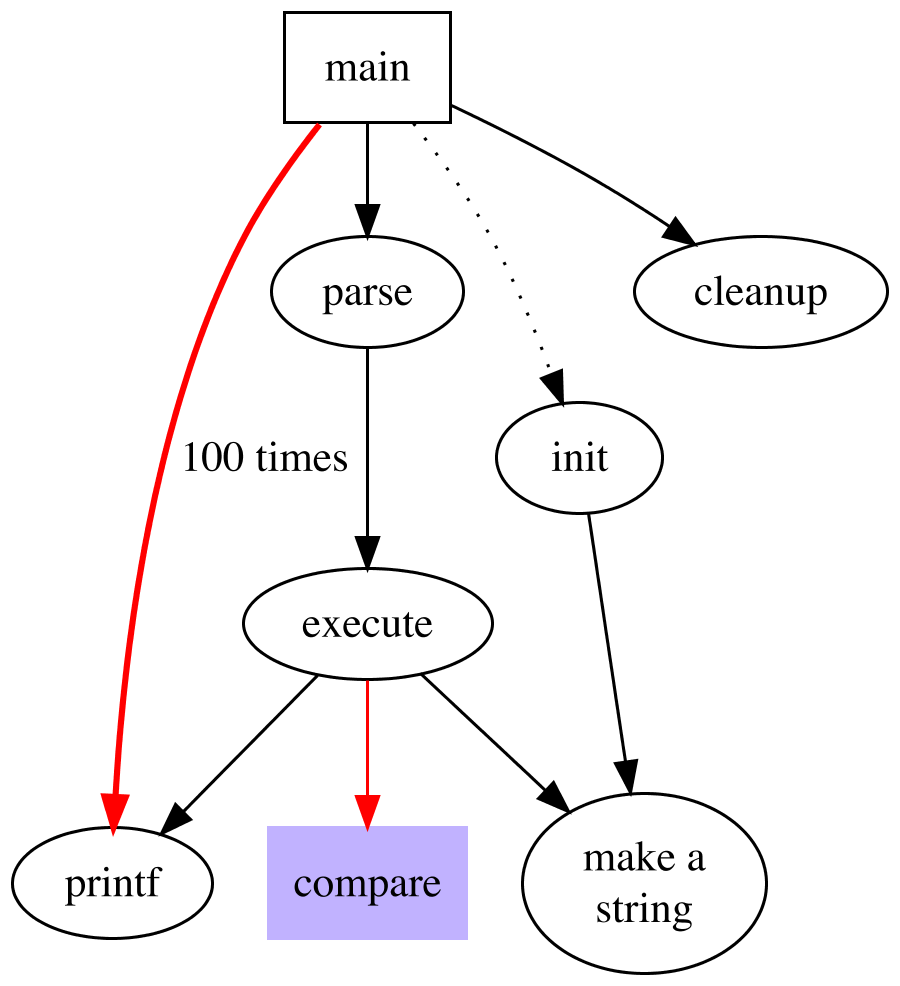
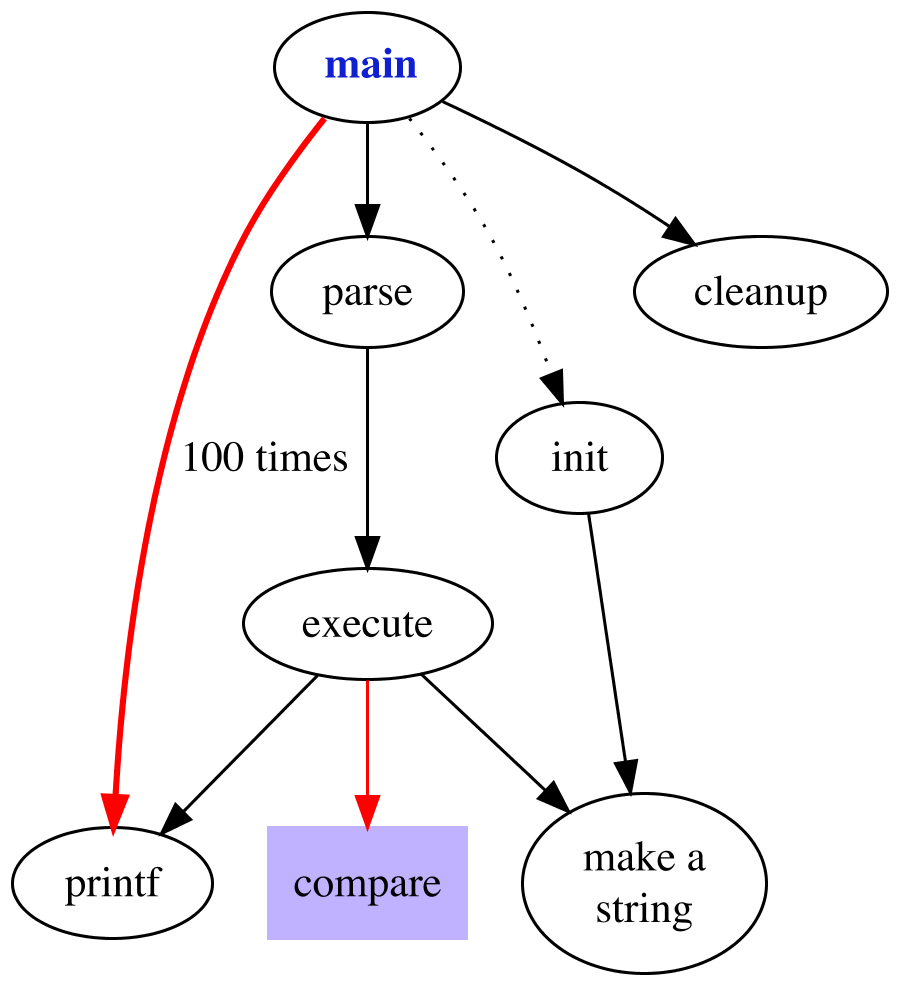
add html label and font color to readme
(cherry picked from commit 082ff4f)

Changed region(s): [[0.28, 0.0, 0.5289, 0.1521], [0.4356, 0.0, 0.4978, 0.0304]]

diff --git a/graphviz-java/src/test/java/guru/nidi/graphviz/model/ReadmeTest.java b/graphviz-java/src/test/java/guru/nidi/graphviz/model/ReadmeTest.java
@@ -52,6 +52,7 @@ class ReadmeTest {
     void ex2() throws IOException {
         //## complex
         Node
+                main = node("main").with(Label.html("<b>main</b>"), Color.rgb("1020d0").font()),
                 init = node("init"),
                 execute = node("execute"),
                 compare = node("compare").with(Shape.RECTANGLE, Style.FILLED, Color.hsv(.7, .3, 1.0)),
@@ -59,7 +60,7 @@ class ReadmeTest {
                 printf = node("printf");
 
         Graph g = graph("example2").directed().with(
-                node("main").with(Shape.RECTANGLE).link(
+                main.link(
                         to(node("parse").link(execute)).with("weight", 8),
                         to(init).with(Style.DOTTED),
                         node("cleanup"),
